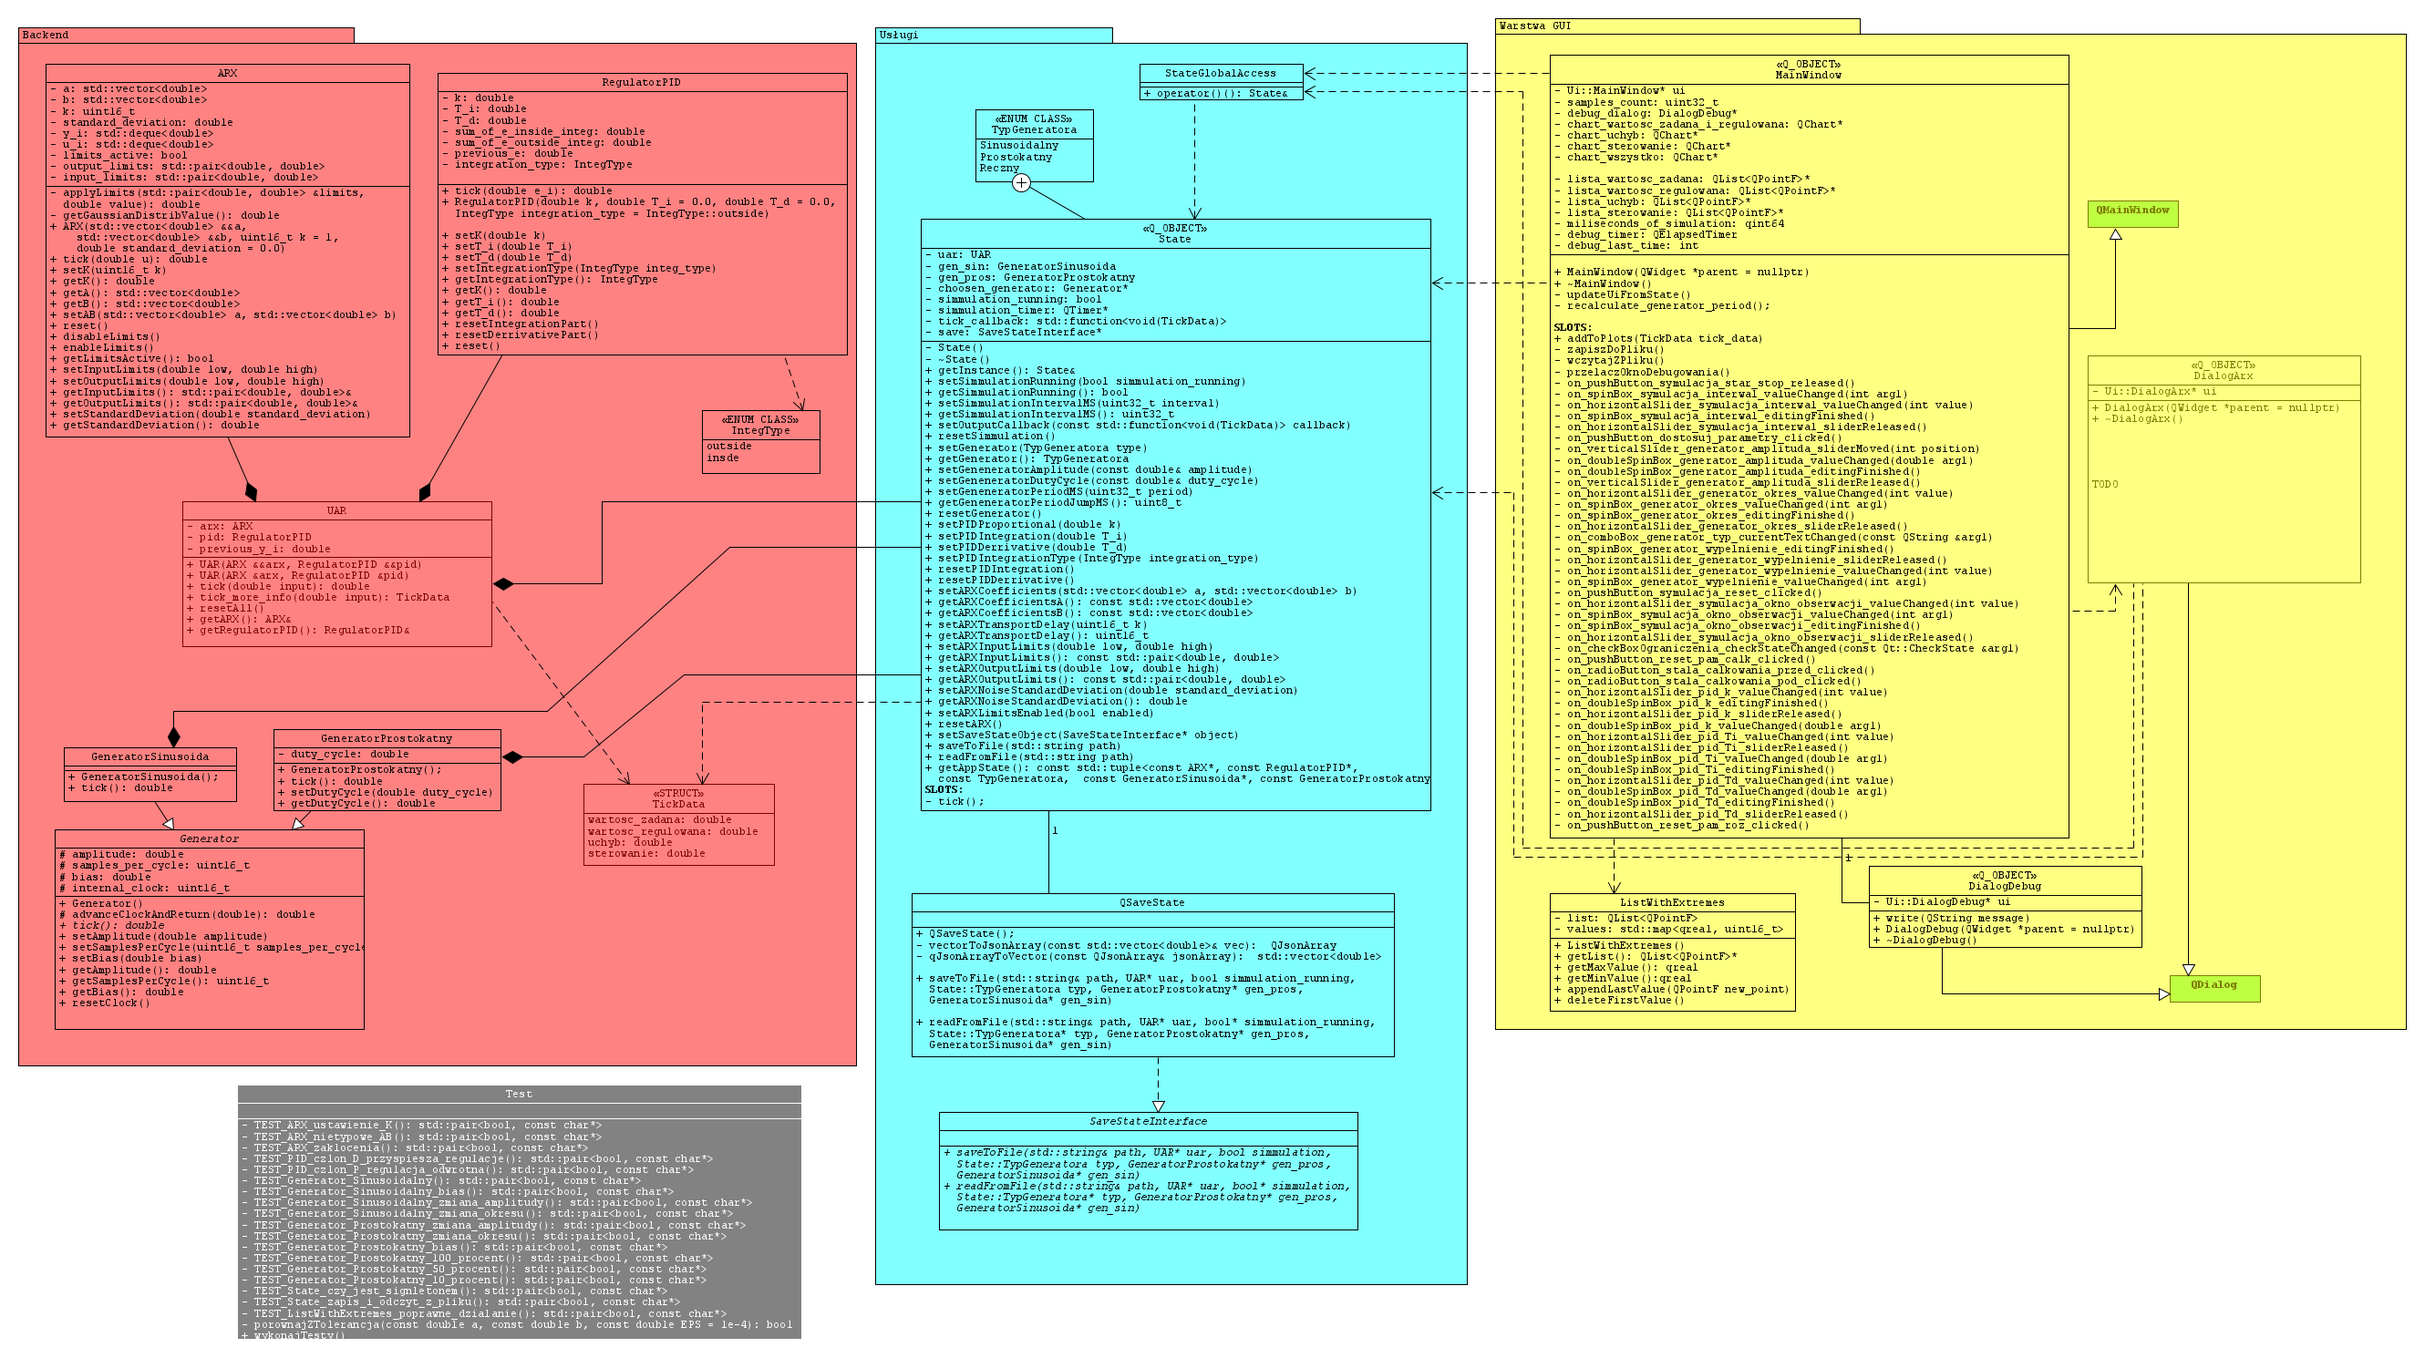
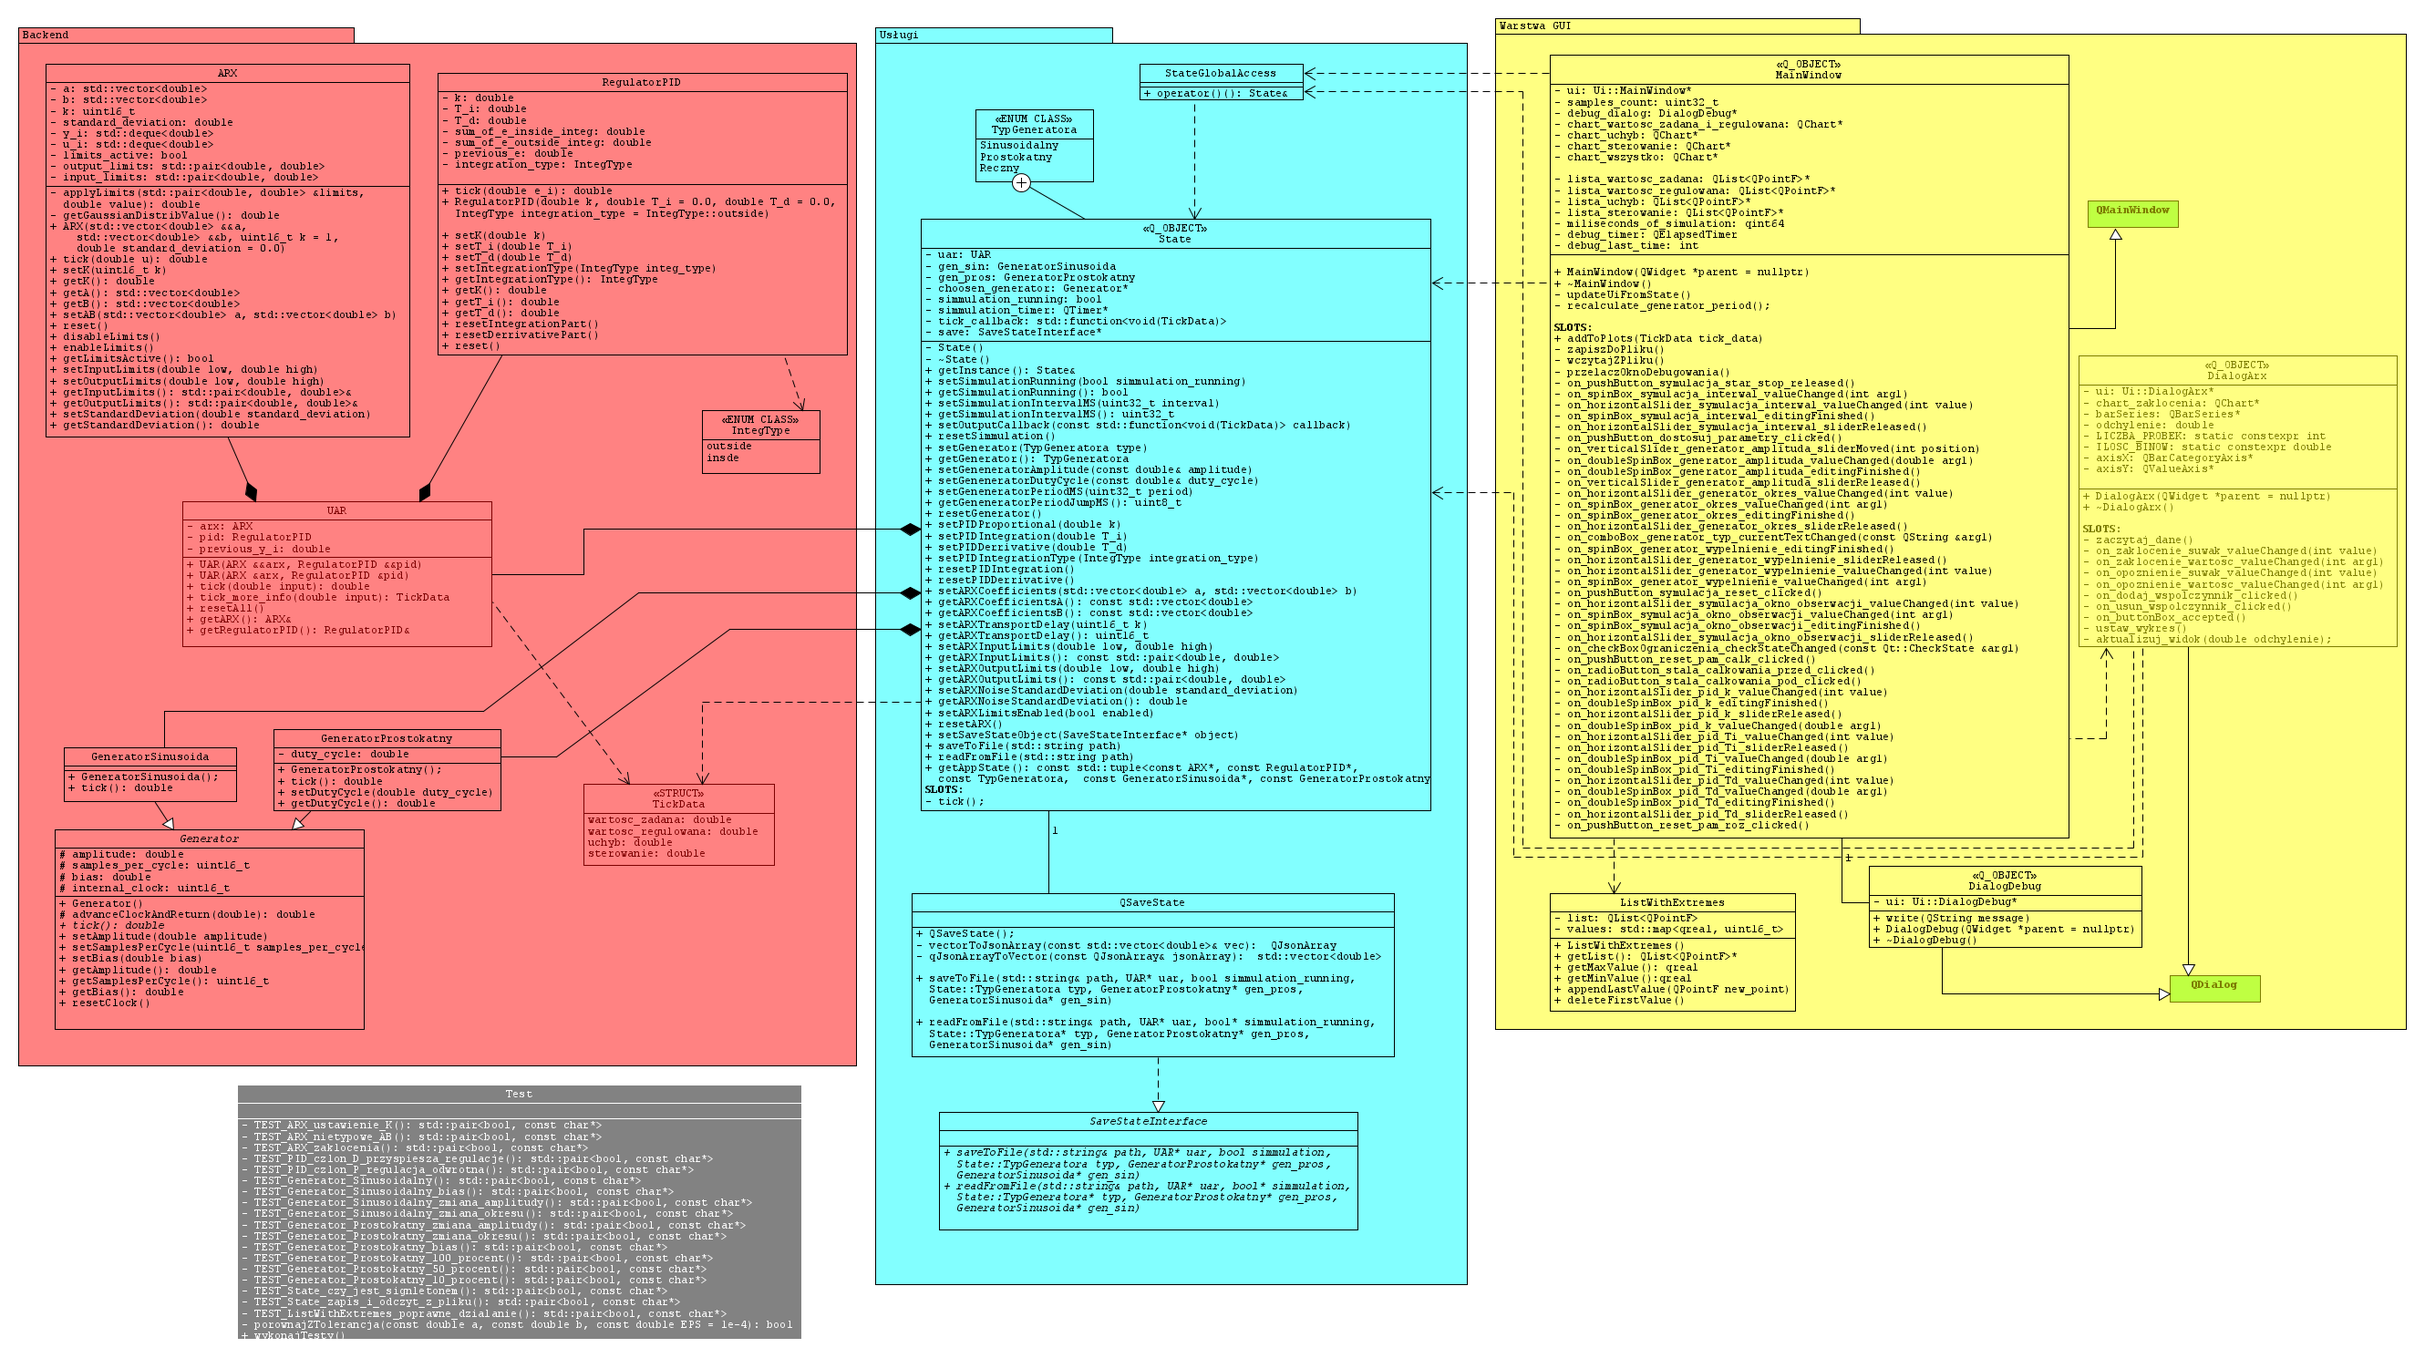
poprawki zamiana wykresów

Changed region(s): [[0.8737, 0.4013, 0.9985, 0.494], [0.8425, 0.247, 0.9361, 0.3705]]

diff --git a/mainwindow.cpp b/mainwindow.cpp
@@ -14,24 +14,27 @@ MainWindow::MainWindow(QWidget *parent)
     debug_dialog = new DialogDebug(this);
 
     chart_sterowanie = new QChart();
-    chart_sterowanie->setTitle(tr("Sterowanie (Wyjście z regulatora)"));
-    chart_sterowanie->legend()->hide();
+    // chart_sterowanie->setTitle(tr("Sterowanie (Wyjście z regulatora)"));
+    // chart_sterowanie->legend()->hide();
 
     chart_uchyb = new QChart();
-    chart_uchyb->setTitle(tr("Uchyb"));
-    chart_uchyb->legend()->hide();
+    // chart_uchyb->setTitle(tr("Uchyb"));
+    // chart_uchyb->legend()->hide();
 
     chart_wartosc_zadana_i_regulowana = new QChart();
-    chart_wartosc_zadana_i_regulowana->setTitle(tr("Wartość zadana i regulowana"));
-    chart_wartosc_zadana_i_regulowana->legend()->hide();
+    // chart_wartosc_zadana_i_regulowana->setTitle(tr("Wartość zadana i regulowana"));
+    // chart_wartosc_zadana_i_regulowana->legend()->hide();
 
-    chart_wszystko = new QChart();
-    chart_wszystko->setTitle(tr("Wszystko"));
+    chart_skladowe_sterowania = new QChart();
+    // chart_wszystko->setTitle(tr("Wszystko"));
 
     lista_sterowanie = new QList<QPointF>();
     lista_uchyb = new QList<QPointF>();
     lista_wartosc_zadana = new QList<QPointF>();
     lista_wartosc_regulowana = new QList<QPointF>();
+    lista_sterowanie_P = new QList<QPointF>();
+    lista_sterowanie_I = new QList<QPointF>();
+    lista_sterowanie_D = new QList<QPointF>();
 
     {
         auto seria = new QLineSeries();
@@ -58,24 +61,19 @@ MainWindow::MainWindow(QWidget *parent)
     }
     {
         auto seria = new QLineSeries();
-        seria->setName("Sterowanie");
-        seria->setColor(QColor(30, 30, 220));
-        chart_wszystko->addSeries(seria);
-
-        seria = new QLineSeries();
-        seria->setName("Uchyb");
-        seria->setColor(QColor(185, 0, 80));
-        chart_wszystko->addSeries(seria);
-
-        seria = new QLineSeries();
-        seria->setName("Wartość zadana");
+        seria->setName("Część proporcjonalna");
         seria->setColor(QColor(0, 180, 55));
-        chart_wszystko->addSeries(seria);
+        chart_skladowe_sterowania->addSeries(seria);
 
         seria = new QLineSeries();
-        seria->setName("Wartość regulowana");
+        seria->setName("Część różniczkująca");
+        seria->setColor(QColor(185, 0, 80));
+        chart_skladowe_sterowania->addSeries(seria);
+
+        seria = new QLineSeries();
+        seria->setName("Część całkująca");
         seria->setColor(QColor(130, 20, 150));
-        chart_wszystko->addSeries(seria);
+        chart_skladowe_sterowania->addSeries(seria);
     }
 
     chart_sterowanie->addAxis(new QValueAxis(), Qt::AlignBottom);
@@ -93,11 +91,11 @@ MainWindow::MainWindow(QWidget *parent)
     chart_wartosc_zadana_i_regulowana->addAxis(new QValueAxis(), Qt::AlignLeft);
     chart_wartosc_zadana_i_regulowana->axes(Qt::Vertical).at(0)->setRange(-5.0, 5.0);
 
-    chart_wszystko->addAxis(new QValueAxis(), Qt::AlignBottom);
-    chart_wszystko->axes(Qt::Horizontal).at(0)->setRange(0.0, 1.0);
-    chart_wszystko->axes(Qt::Horizontal).at(0)->setTitleText("Czas [s]");
-    chart_wszystko->addAxis(new QValueAxis(), Qt::AlignLeft);
-    chart_wszystko->axes(Qt::Vertical).at(0)->setRange(-5.0, 5.0);
+    chart_skladowe_sterowania->addAxis(new QValueAxis(), Qt::AlignBottom);
+    chart_skladowe_sterowania->axes(Qt::Horizontal).at(0)->setRange(0.0, 1.0);
+    chart_skladowe_sterowania->axes(Qt::Horizontal).at(0)->setTitleText("Czas [s]");
+    chart_skladowe_sterowania->addAxis(new QValueAxis(), Qt::AlignLeft);
+    chart_skladowe_sterowania->axes(Qt::Vertical).at(0)->setRange(-5.0, 5.0);
 
     chart_sterowanie->series().at(0)->attachAxis(chart_sterowanie->axes(Qt::Horizontal).at(0));
     chart_sterowanie->series().at(0)->attachAxis(chart_sterowanie->axes(Qt::Vertical).at(0));
@@ -114,22 +112,20 @@ MainWindow::MainWindow(QWidget *parent)
     chart_wartosc_zadana_i_regulowana->series().at(1)->attachAxis(
         chart_wartosc_zadana_i_regulowana->axes(Qt::Vertical).at(0));
 
-    chart_wszystko->series().at(0)->attachAxis(chart_wszystko->axes(Qt::Horizontal).at(0));
-    chart_wszystko->series().at(0)->attachAxis(chart_wszystko->axes(Qt::Vertical).at(0));
-    chart_wszystko->series().at(1)->attachAxis(chart_wszystko->axes(Qt::Horizontal).at(0));
-    chart_wszystko->series().at(1)->attachAxis(chart_wszystko->axes(Qt::Vertical).at(0));
-    chart_wszystko->series().at(2)->attachAxis(chart_wszystko->axes(Qt::Horizontal).at(0));
-    chart_wszystko->series().at(2)->attachAxis(chart_wszystko->axes(Qt::Vertical).at(0));
-    chart_wszystko->series().at(3)->attachAxis(chart_wszystko->axes(Qt::Horizontal).at(0));
-    chart_wszystko->series().at(3)->attachAxis(chart_wszystko->axes(Qt::Vertical).at(0));
+    chart_skladowe_sterowania->series().at(0)->attachAxis(chart_skladowe_sterowania->axes(Qt::Horizontal).at(0));
+    chart_skladowe_sterowania->series().at(0)->attachAxis(chart_skladowe_sterowania->axes(Qt::Vertical).at(0));
+    chart_skladowe_sterowania->series().at(1)->attachAxis(chart_skladowe_sterowania->axes(Qt::Horizontal).at(0));
+    chart_skladowe_sterowania->series().at(1)->attachAxis(chart_skladowe_sterowania->axes(Qt::Vertical).at(0));
+    chart_skladowe_sterowania->series().at(2)->attachAxis(chart_skladowe_sterowania->axes(Qt::Horizontal).at(0));
+    chart_skladowe_sterowania->series().at(2)->attachAxis(chart_skladowe_sterowania->axes(Qt::Vertical).at(0));
+
     // chart_sterowanie->series().at(0)->setUseOpenGL(true);
     // chart_uchyb->series().at(0)->setUseOpenGL(true);
     // chart_wartosc_zadana_i_regulowana->series().at(0)->setUseOpenGL(true);
     // chart_wartosc_zadana_i_regulowana->series().at(1)->setUseOpenGL(true);
-    // chart_wszystko->series().at(0)->setUseOpenGL(true);
-    // chart_wszystko->series().at(1)->setUseOpenGL(true);
-    // chart_wszystko->series().at(2)->setUseOpenGL(true);
-    // chart_wszystko->series().at(3)->setUseOpenGL(true);
+    // chart_skladowe_sterowania->series().at(0)->setUseOpenGL(true);
+    // chart_skladowe_sterowania->series().at(1)->setUseOpenGL(true);
+    // chart_skladowe_sterowania->series().at(2)->setUseOpenGL(true);
 
 
     auto q_chart_view = new QChartView(chart_sterowanie);
@@ -154,8 +150,8 @@ MainWindow::MainWindow(QWidget *parent)
     q_chart_view->setOptimizationFlags(QGraphicsView::OptimizationFlag::IndirectPainting);
     ui->verticalLayout_wykresy->addWidget(q_chart_view, 2);
 
-    q_chart_view = new QChartView(chart_wszystko);
-    chart_wszystko->setMargins(QMargins(0,0,0,0));
+    q_chart_view = new QChartView(chart_skladowe_sterowania);
+    chart_skladowe_sterowania->setMargins(QMargins(0,0,0,0));
     q_chart_view->setOptimizationFlags(QGraphicsView::OptimizationFlag::DontAdjustForAntialiasing);
     q_chart_view->setOptimizationFlags(QGraphicsView::OptimizationFlag::DontSavePainterState);
     q_chart_view->setOptimizationFlags(QGraphicsView::OptimizationFlag::IndirectPainting);
@@ -172,6 +168,25 @@ MainWindow::MainWindow(QWidget *parent)
 
     on_spinBox_generator_okres_editingFinished();
     updateUiFromState();
+
+    update_charts_timer = new QTimer(this);
+    update_charts_timer->setInterval(500);
+    update_charts_timer->start();
+    QObject::connect(update_charts_timer, &QTimer::timeout, this, &MainWindow::updateCharts);
+
+}
+void MainWindow::updateCharts()
+{
+    dynamic_cast<QLineSeries *>(chart_sterowanie->series().at(0))->replace(*lista_sterowanie);
+
+    dynamic_cast<QLineSeries *>(chart_uchyb->series().at(0))->replace(*lista_uchyb);
+
+    dynamic_cast<QLineSeries *>(chart_wartosc_zadana_i_regulowana->series().at(0))->replace(*lista_wartosc_zadana);
+    dynamic_cast<QLineSeries *>(chart_wartosc_zadana_i_regulowana->series().at(1))->replace(*lista_wartosc_regulowana);
+
+    dynamic_cast<QLineSeries *>(chart_skladowe_sterowania->series().at(0))->replace(*lista_sterowanie_P);
+    dynamic_cast<QLineSeries *>(chart_skladowe_sterowania->series().at(1))->replace(*lista_sterowanie_I);
+    dynamic_cast<QLineSeries *>(chart_skladowe_sterowania->series().at(2))->replace(*lista_sterowanie_D);
 }
 void MainWindow::addToPlots(TickData tick_data)
 {
@@ -187,19 +202,10 @@ void MainWindow::addToPlots(TickData tick_data)
     lista_wartosc_zadana->append(QPointF(seconds_of_simulation, tick_data.wartosc_zadana));
     lista_wartosc_regulowana->append(QPointF(seconds_of_simulation, tick_data.wartosc_regulowana));
     lista_uchyb->append(QPointF(seconds_of_simulation, tick_data.uchyb));
-    lista_sterowanie->append(QPointF(seconds_of_simulation, tick_data.sterowanie));
-
-    dynamic_cast<QLineSeries *>(chart_sterowanie->series().at(0))->replace(*lista_sterowanie);
-
-    dynamic_cast<QLineSeries *>(chart_uchyb->series().at(0))->replace(*lista_uchyb);
-
-    dynamic_cast<QLineSeries *>(chart_wartosc_zadana_i_regulowana->series().at(0))->replace(*lista_wartosc_zadana);
-    dynamic_cast<QLineSeries *>(chart_wartosc_zadana_i_regulowana->series().at(1))->replace(*lista_wartosc_regulowana);
-
-    dynamic_cast<QLineSeries *>(chart_wszystko->series().at(0))->replace(*lista_sterowanie);
-    dynamic_cast<QLineSeries *>(chart_wszystko->series().at(1))->replace(*lista_uchyb);
-    dynamic_cast<QLineSeries *>(chart_wszystko->series().at(2))->replace(*lista_wartosc_zadana);
-    dynamic_cast<QLineSeries *>(chart_wszystko->series().at(3))->replace(*lista_wartosc_regulowana);
+    lista_sterowanie->append(QPointF(seconds_of_simulation, static_cast<double>(tick_data.sterowanie)));
+    lista_sterowanie_P->append(QPointF(seconds_of_simulation, static_cast<double>(tick_data.sterowanie.Proportional)));
+    lista_sterowanie_I->append(QPointF(seconds_of_simulation, static_cast<double>(tick_data.sterowanie.Integral)));
+    lista_sterowanie_D->append(QPointF(seconds_of_simulation, static_cast<double>(tick_data.sterowanie.Derrivative)));
 
     // Osie poziome - skalowanie
     constexpr const qreal LICZBA_DODATKOWYCH_PROBEK_PO_PRAWEJ = 4.0;
@@ -213,7 +219,7 @@ void MainWindow::addToPlots(TickData tick_data)
     chart_sterowanie->axes(Qt::Horizontal).at(0)->setRange(range_start, range_end);
     chart_uchyb->axes(Qt::Horizontal).at(0)->setRange(range_start, range_end);
     chart_wartosc_zadana_i_regulowana->axes(Qt::Horizontal).at(0)->setRange(range_start, range_end);
-    chart_wszystko->axes(Qt::Horizontal).at(0)->setRange(range_start, range_end);
+    chart_skladowe_sterowania->axes(Qt::Horizontal).at(0)->setRange(range_start, range_end);
 
     // Osie pionowe - skalowanie
     qreal max_uchyb = 0.0;
@@ -282,7 +288,7 @@ void MainWindow::addToPlots(TickData tick_data)
                                   std::min(min_wartosc_zadana, min_wartosc_regulowana));
     qreal range_width_wszystko = (max_wszystko - min_wszystko) * 0.1;
 
-    chart_wszystko->axes(Qt::Vertical)
+    chart_skladowe_sterowania->axes(Qt::Vertical)
         .at(0)
         ->setRange(min_wszystko - range_width_wszystko, max_wszystko + range_width_wszystko);
 

diff --git a/mainwindow.h b/mainwindow.h
@@ -20,6 +20,7 @@ public:
 public slots:
     void addToPlots(TickData tick_data);
 private slots:
+    void updateCharts();
     void zapiszDoPliku();
     void wczytajZPliku();
     void przelaczOknoDebugowania();
@@ -76,12 +77,18 @@ private:
     QChart *chart_wartosc_zadana_i_regulowana;
     QChart *chart_uchyb;
     QChart *chart_sterowanie;
-    QChart *chart_wszystko;
+    QChart *chart_skladowe_sterowania;
+
+    QTimer *update_charts_timer;
 
     QList<QPointF> *lista_wartosc_zadana;
     QList<QPointF> *lista_wartosc_regulowana;
     QList<QPointF> *lista_uchyb;
     QList<QPointF> *lista_sterowanie;
+    QList<QPointF> *lista_sterowanie_P;
+    QList<QPointF> *lista_sterowanie_I;
+    QList<QPointF> *lista_sterowanie_D;
+
     qint64 miliseconds_of_simulation;
 
     QElapsedTimer debug_timer;

diff --git a/UAR.cpp b/UAR.cpp
@@ -15,14 +15,14 @@ double UAR::tick(double input)
     previous_y_i = this->arx.tick(this->pid.tick(input - previous_y_i));
     return previous_y_i;
 }
-TickData UAR::tick_more_info(double input)
+TickData UAR::tickMoreInfo(double input)
 {
     TickData tick_data;
 
     tick_data.wartosc_zadana = input;
     tick_data.uchyb = tick_data.wartosc_zadana - previous_y_i;
-    tick_data.sterowanie = this->pid.tick(tick_data.uchyb);
-    tick_data.wartosc_regulowana = this->arx.tick(tick_data.sterowanie);
+    tick_data.sterowanie = this->pid.tickMoreData(tick_data.uchyb);
+    tick_data.wartosc_regulowana = this->arx.tick(static_cast<double>(tick_data.sterowanie));
     previous_y_i = tick_data.wartosc_regulowana;
     return tick_data;
 }

diff --git a/RegulatorPID.cpp b/RegulatorPID.cpp
@@ -1,6 +1,6 @@
 #include "RegulatorPID.h"
 
-double RegulatorPID::tick(double e_i)
+PIDTickData RegulatorPID::tickMoreData(double e_i)
 {
     double u_i_P = k * e_i;
     double u_i_I;
@@ -26,7 +26,12 @@ double RegulatorPID::tick(double e_i)
     double u_i_D = T_d * (e_i - previous_e);
     previous_e = e_i;
 
-    return u_i_P + u_i_I + u_i_D;
+    return PIDTickData{u_i_P, u_i_I, u_i_D};
+}
+
+double RegulatorPID::tick(double e_i)
+{
+    return static_cast<double>(tickMoreData(e_i));
 }
 
 RegulatorPID::RegulatorPID(double k, double T_i, double T_d, IntegType integration_type)

diff --git a/RegulatorPID.h b/RegulatorPID.h
@@ -10,6 +10,17 @@ enum class IntegType {
     insde,
 };
 
+struct PIDTickData
+{
+    double Proportional;
+    double Integral;
+    double Derrivative;
+    explicit operator double()
+    {
+        return Proportional + Integral + Derrivative;
+    }
+};
+
 /**
  * @brief
  *
@@ -32,6 +43,13 @@ public:
      * @return double
      */
 double tick(double e_i);
+    /**
+     * @brief
+     *
+     * @param e_i
+     * @return double
+     */
+PIDTickData tickMoreData(double e_i);
     /**
      * @brief
      *

diff --git a/UAR.h b/UAR.h
@@ -8,7 +8,7 @@ struct TickData
     double wartosc_zadana;
     double wartosc_regulowana;
     double uchyb;
-    double sterowanie;
+    PIDTickData sterowanie;
 };
 
 class UAR
@@ -21,7 +21,7 @@ public:
     UAR(ARX &&arx, RegulatorPID &&pid);
     UAR(ARX &arx, RegulatorPID &pid);
     double tick(double input);
-    TickData tick_more_info(double input);
+    TickData tickMoreInfo(double input);
     void resetAll();
     ARX &getARX();
     RegulatorPID &getRegulatorPID();

diff --git a/State.cpp b/State.cpp
@@ -215,7 +215,7 @@ void State::readFromFile(std::string path)
 
 void State::tick()
 {
-    this->tick_callback(uar.tick_more_info(choosen_generator->tick()));
+    this->tick_callback(uar.tickMoreInfo(choosen_generator->tick()));
 }
 
 const std::tuple<const ARX*, const RegulatorPID*, const State::TypGeneratora, const GeneratorSinusoida*, const GeneratorProstokatny*> State::getAppState()
